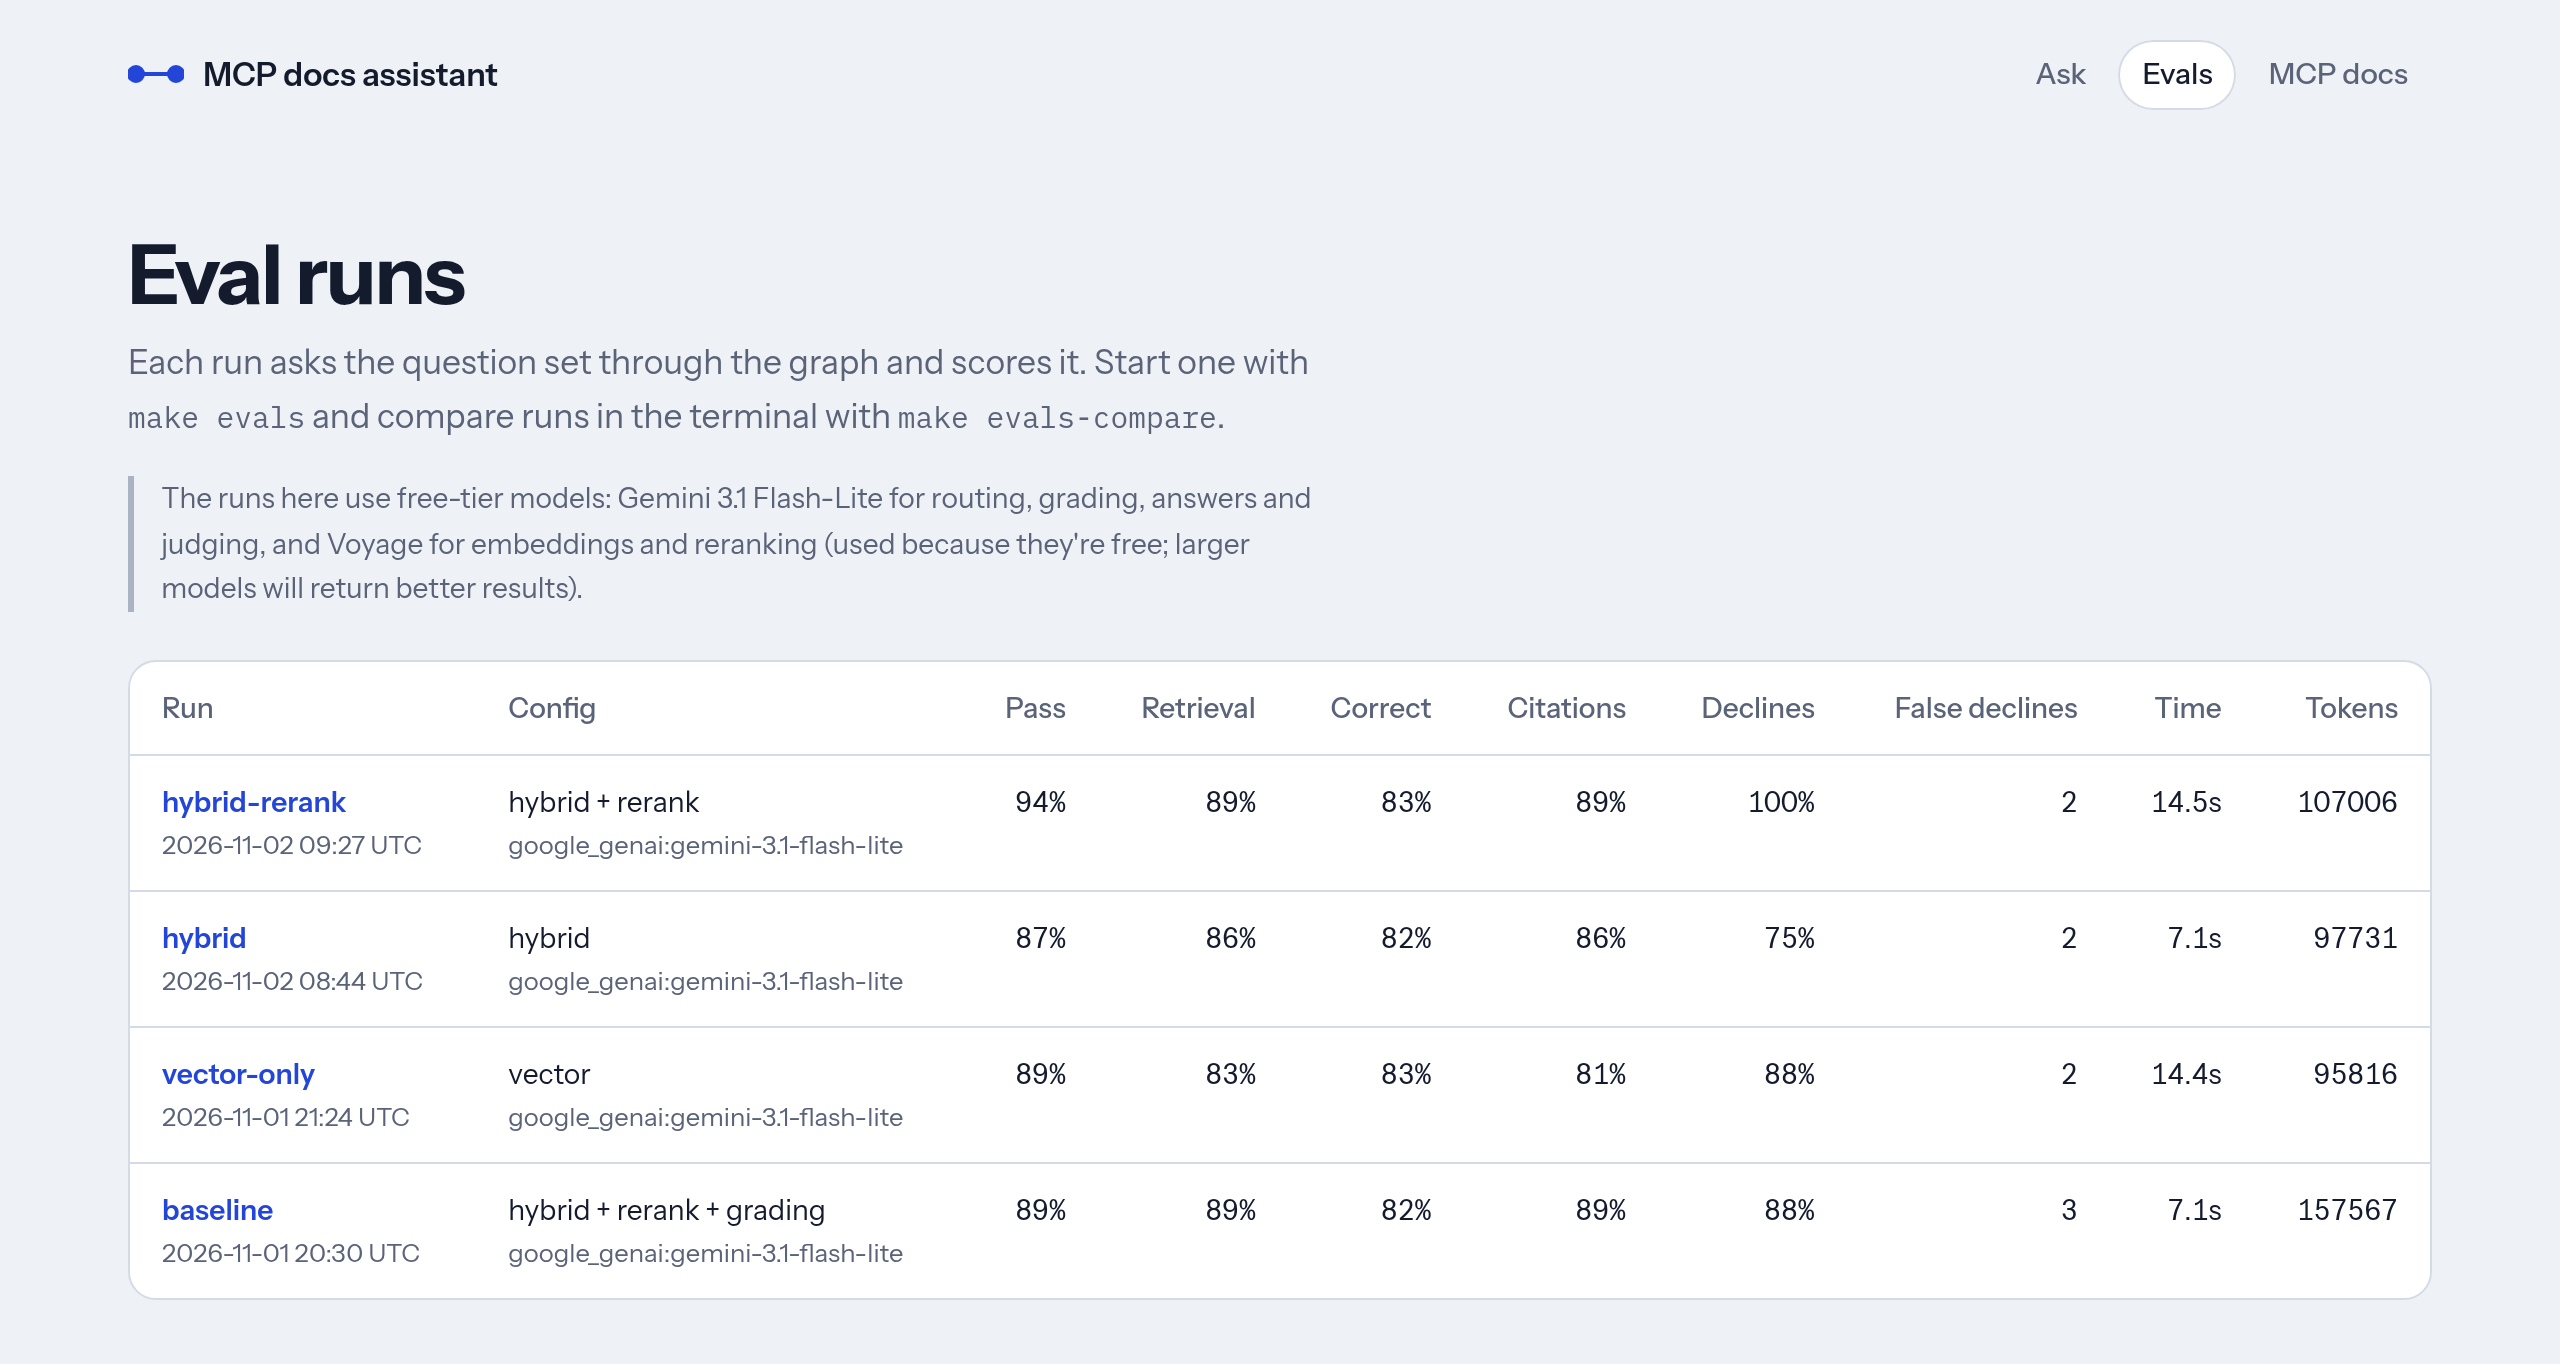
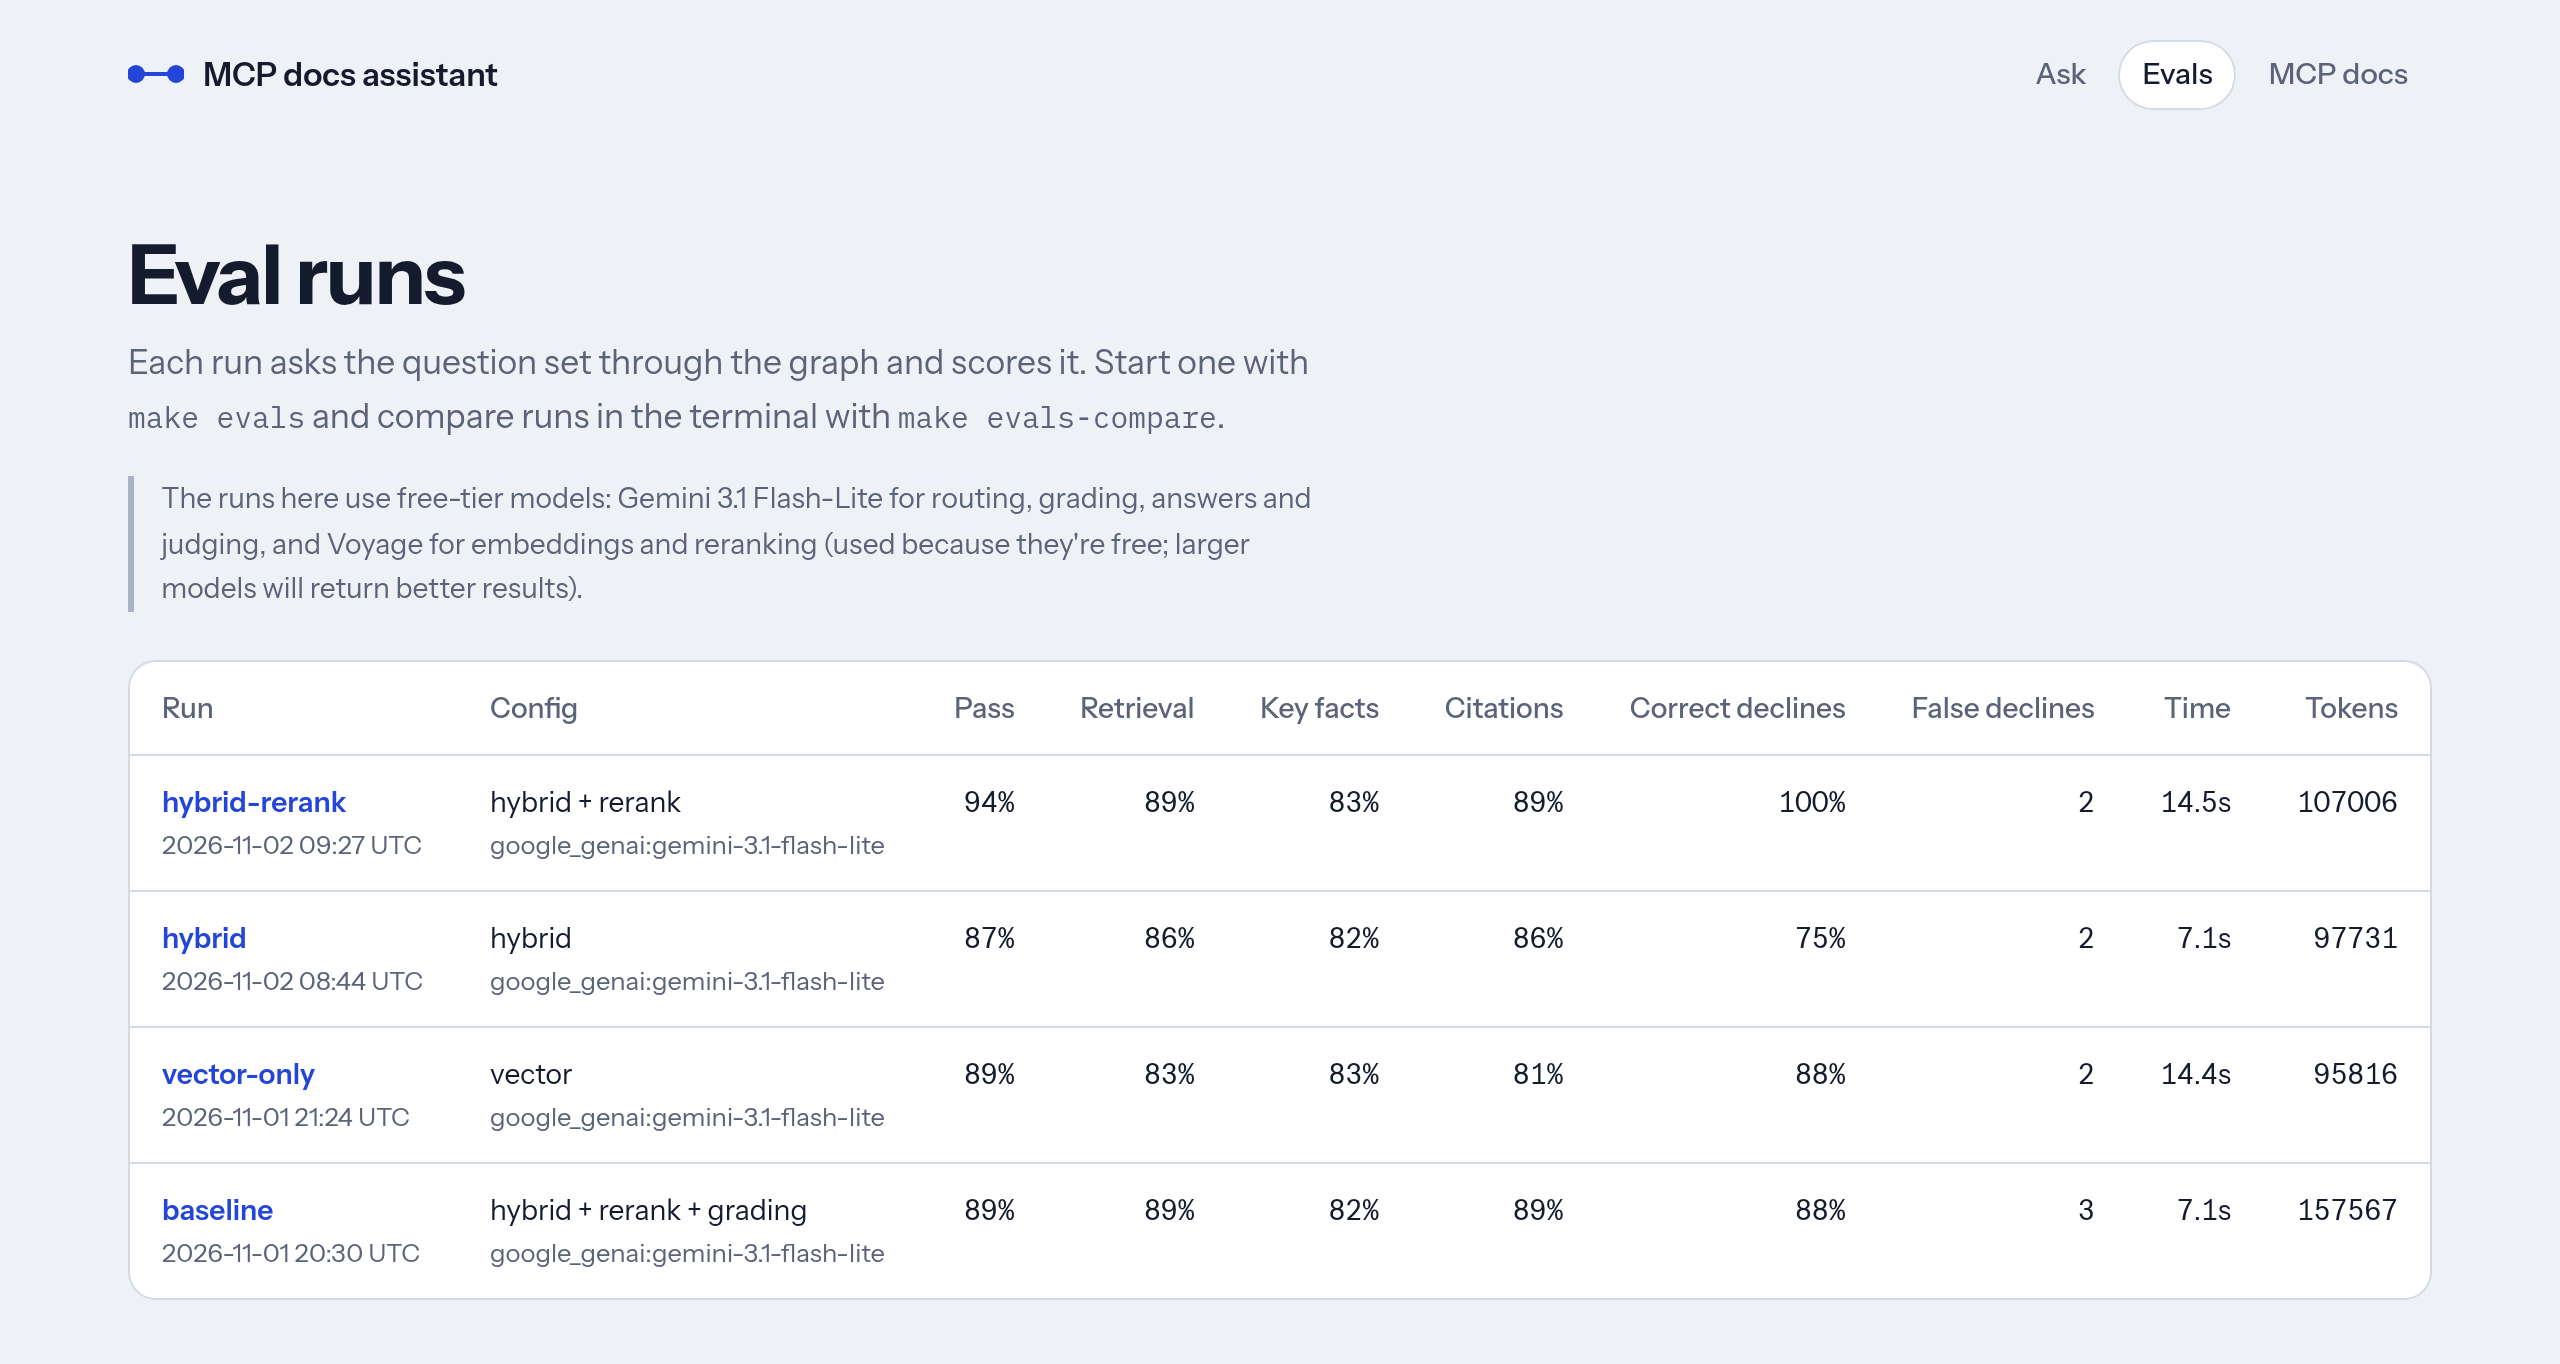
fix: rename eval columns to key facts and correct declines

diff --git a/app/templates/evals.html b/app/templates/evals.html
@@ -20,9 +20,9 @@
         <th scope="col">Config</th>
         <th scope="col" class="num">Pass</th>
         <th scope="col" class="num">Retrieval</th>
-        <th scope="col" class="num">Correct</th>
+        <th scope="col" class="num">Key facts</th>
         <th scope="col" class="num">Citations</th>
-        <th scope="col" class="num">Declines</th>
+        <th scope="col" class="num">Correct declines</th>
         <th scope="col" class="num">False declines</th>
         <th scope="col" class="num">Time</th>
         <th scope="col" class="num">Tokens</th>

diff --git a/tests/test_evals_results.py b/tests/test_evals_results.py
@@ -63,7 +63,7 @@ def test_compare_formats_one_row_per_run() -> None:
     lines = compare(runs).splitlines()
 
     assert lines[0].split() == [
-        "run", "config", "pass", "retrieval", "correct", "citations", "declines",
+        "run", "config", "pass", "retrieval", "facts", "citations", "ok-declines",
         "false", "dec.", "time", "tokens",
     ]  # fmt: skip
     assert lines[1].split() == [

diff --git a/evals/results.py b/evals/results.py
@@ -9,9 +9,9 @@ RESULTS_DIR = Path(__file__).parent / "results"
 COLUMNS = (
     ("pass_rate", "pass"),
     ("retrieval_hit_rate", "retrieval"),
-    ("correctness", "correct"),
+    ("correctness", "facts"),
     ("citation_accuracy", "citations"),
-    ("correct_declines", "declines"),
+    ("correct_declines", "ok-declines"),
 )
 
 

diff --git a/README.md b/README.md
@@ -171,15 +171,15 @@ Free tiers shape how this runs, and the defaults in `.env.example` are set for t
 |---|---|
 | Pass | The expected behaviour happened and, for answers, at least half the key facts were stated |
 | Retrieval | An expected source file was among the chunks the answer saw |
-| Correct | Share of key facts stated, judged by an LLM |
+| Key facts | Share of key facts stated, judged by an LLM |
 | Citations | The answer cited at least one expected source |
-| Declines | Off-topic and not-covered questions were declined, or answered with "this release does not define it" |
+| Correct declines | Of the questions that should not get a normal answer (off topic, or about a feature the release lacks), the share handled correctly: declined, or answered with "this release does not define it" |
 
 ### Results
 
 Four configurations, each run over all 46 questions with Gemini 3.1 Flash-Lite answering and judging, and Voyage embeddings and reranking (used because they're free; larger models will return better results):
 
-| Configuration | Pass | Retrieval | Correct | Citations | Declines | False declines |
+| Configuration | Pass | Retrieval | Key facts | Citations | Correct declines | False declines |
 |---|---|---|---|---|---|---|
 | Vector only | 89% | 83% | 83% | 81% | 88% | 2 |
 | Hybrid (BM25 + vector) | 87% | 86% | 82% | 86% | 75% | 2 |
